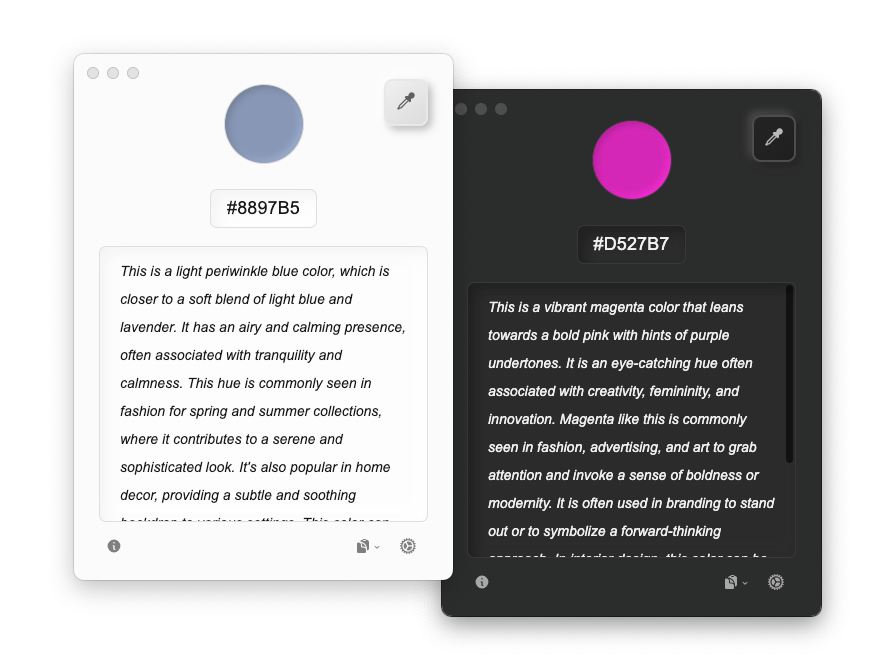
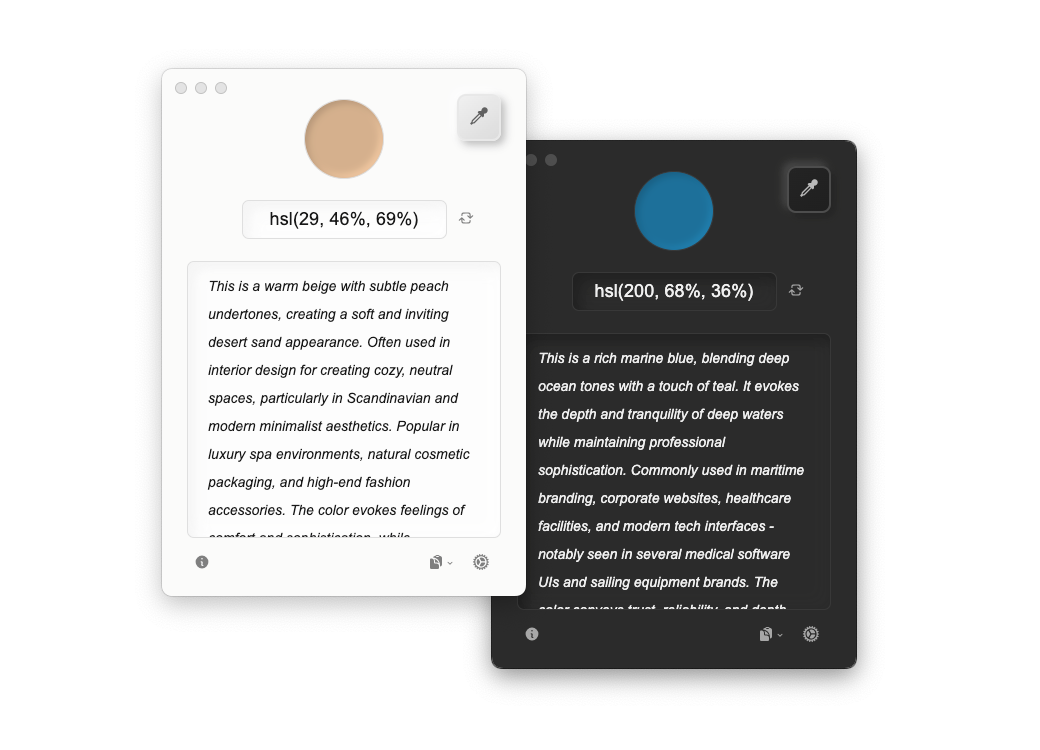
docs: update readme

diff --git a/docs/README_EN.md b/docs/README_EN.md
@@ -19,12 +19,21 @@ You can download ColorLift's installation packages and portable archives for Win
 
 ## Features
 
-- 🎨 **One-click Color Picking**: Click any spot on the screen to get the corresponding HEX color value.
+- 🎨 **One-click Color Picking**: Click any spot on the screen to get the corresponding HEX/RGB/HSL color value.
 - 🔍 **Color Recognition Assistance**: Textual descriptions help users (especially those with color vision deficiencies) understand colors.
 - 🌈 **Contextual Color Descriptions**: Provides common use cases for colors, aiding in practical application.
 - 🌍 **Multi-language Support**: Currently supports English, Simplified Chinese, and Traditional Chinese. Contributions for additional languages or corrections are welcome.
 - 🤖 **Multi-Model Support**: API support for Anthropic, Cohere, iFlytek Spark, OpenAI, and Zhipu AI.
 - 💻 **Cross-Platform Compatibility**: Supports Windows and macOS.
+
+## Interface Preview
+
+![Application Interface](images/promote_en_2.png)
+
+**Supports switching between HEX, RGB, and HSL color formats.**
+
+*(The language model used in the demonstration is Claude 3.5 Sonnet.)*
+
 
 ## System Requirements
 
@@ -47,7 +56,7 @@ Before using ColorLift, ensure you have an API Key from a supported large langua
 - **OpenAI**: [Get API Key](https://platform.openai.com/api-keys) | [Pricing](https://openai.com/api/pricing/)
 - **Zhipu AI**: [Get API Key](https://open.bigmodel.cn/usercenter/proj-mgmt/apikeys) (Account Settings > Project Management > API Keys) | [Pricing](https://open.bigmodel.cn/pricing)
 
-### macOS Users: Initial Setup Notice
+## macOS Users: Initial Setup Notice
 
 Since ColorLift does not currently use code signing (as this is a personal project without an Apple Developer Account), running it for the first time on macOS may trigger a security warning. You can follow simple steps to enable it. Refer to the official guide: [Open a Mac App from an Unidentified Developer](https://support.apple.com/guide/mac-help/mh40616/mac).
 
@@ -56,11 +65,8 @@ Since ColorLift does not currently use code signing (as this is a personal proje
 1. In the settings section at the bottom-right corner of the main interface, select your LLM provider and model, and enter the API Key from the respective provider (ensure your region and network allow access to the model service).
 2. Use the color picker tool on the interface (or use the default shortcuts: Windows: `Alt + D` / macOS: `Option + C`) to select any color from the screen.
 3. ColorLift will generate the following information:
-   - HEX color value.
-   - A detailed textual description, including a description of the color and its common applications. For example:
-     > *(Generated by Claude 3.5 Sonnet)*
-     > `#5B8FB0`:
-     > A sophisticated blue-gray hue with a touch of deep-sea mystique. It resembles the sky reflected on a calm sea, balancing indigo and gray, exuding maturity and stability. This color is commonly used in modern minimalist interior design, ideal for bedroom or study walls to create a serene and cozy ambiance. It’s also popular in corporate branding, conveying professionalism and reliability. Additionally, it frequently appears in business attire, high-end furniture, and architectural facades, showcasing understated elegance.
+   - HEX, RGB, and HSL color values.
+   - A detailed textual description, including a description of the color and its common applications.
 4. Copy the color code and description with a single click.
 
 ## Privacy
@@ -68,7 +74,7 @@ Since ColorLift does not currently use code signing (as this is a personal proje
 1. **Screen Access**:
 
    - On macOS, ColorLift requires screen recording and system audio permissions to function. Without these permissions, the color picker may not work properly.
-   - During color picking, the application only reads the color value of a 1x1 pixel area under the cursor and sends the HEX value to the LLM for processing (designed to protect privacy and minimize API usage costs).
+   - During color picking, the application only reads the color value of a 1x1 pixel area under the cursor and sends the HEX, RGB, and HSL values to the LLM for processing (designed to protect privacy and minimize API usage costs).
 
 2. **LLM API Key**:
 
@@ -83,6 +89,8 @@ ColorLift supports the following language models:
 - **iFlytek Spark**: Lite, Pro, Max, 4.0 Ultra
 - **OpenAI**: GPT-4o Series
 - **Zhipu AI**: GLM-4 Series
+
+*Due to differences in underlying architecture and training data, the quality of text generated by different language models may vary.*
 
 ## FAQ
 

diff --git a/README.md b/README.md
@@ -19,12 +19,20 @@
 
 ## 特点
 
-- 🎨 **一键拾色**：点击屏幕上的任意位置，获取对应的 HEX 颜色值。
+- 🎨 **一键拾色**：点击屏幕上的任意位置，获取对应的 HEX/RGB/HSL 颜色值。
 - 🔍 **颜色识别辅助**：通过文字描述帮助用户（特别是色觉障碍者）理解颜色。
 - 🌈 **语境化颜色描述**：提供颜色的常见使用场景，帮助用户更好地理解色彩在实际中的应用。
 - 🌍 **多语言支持**：目前支持英文、简体中文和繁体中文，欢迎贡献其他语言的翻译或帮助纠错。
 - 🤖 **多模型支持**：API 支持 Anthropic、Cohere、科大讯飞星火、OpenAI 和智谱 AI。
 - 💻 **跨平台兼容**：支持 Windows 和 macOS。
+
+## 界面预览
+
+![应用界面2](docs/images/promote_zh-CN_2.png)
+
+**支持在 HEX、RGB 和 HSL 颜色格式之间切换。**
+
+*（演示中使用的语言模型为 Claude 3.5 Sonnet）*
 
 ## 系统要求
 
@@ -47,7 +55,7 @@
 - **OpenAI**: [获取 API Key](https://platform.openai.com/api-keys) | [资费说明](https://openai.com/api/pricing/)
 - **智谱 AI (Zhipu AI)**: [获取 API Key](https://open.bigmodel.cn/usercenter/proj-mgmt/apikeys) （账号设置 > 项目管理 > API keys）| [资费说明](https://open.bigmodel.cn/pricing)
 
-### macOS 用户使用前注意
+## macOS 用户使用前注意
 
 由于拾彩目前未启用代码签名（因为作为兴趣使然的个人项目，我并未支付 Apple 开发者账号的年费），因此在 macOS 上首次运行时，会触发系统的安全警告。您只需要进行一些简单的设置即可使用它，请参阅官方文档：[打开来自未知开发者的 Mac App](https://support.apple.com/guide/mac-help/mh40616/mac)。
 
@@ -56,11 +64,8 @@
 1. 在拾彩应用主界面的右下角的设置中选择语言模型的提供商与模型，并输入从相应提供商获取的 API Key （请首先确保您所在的地区与网络能够访问到该语言模型服务）。
 2. 使用界面上的拾色工具（或使用自带的快捷键：Windows 默认：`ALt + D` / macOS 默认： `Option + C`）从屏幕中选取任意颜色。
 3. 拾彩应用将提供并生成以下信息：
-   - 颜色的 HEX 值。
-   - 详细的文字描述，包括颜色的描述以及常见应用场景。例如：
-    > *（示例生成自Claude 3.5 Sonnet）*
-    > `#5B8FB0`:
-    > 这是一种典雅的青灰蓝色，带有些许深海般的神秘感。它像是平静海面反射的天空，介于靛蓝和灰色之间，透露出成熟稳重的气质。这种颜色常见于现代简约风格的室内设计，特别适合用作主卧室或书房的墙面色彩，能营造出安宁舒适的氛围。在企业品牌设计中，它也是很受欢迎的选择，传达出专业、可靠的形象。此外，这个色调还经常出现在商务正装、高端家具和建筑外立面设计中，展现出低调优雅的格调。
+   - 该颜色的 HEX、RGB 与 HSL 值。
+   - 详细的文字描述，包括颜色的描述以及常见应用场景。
 4. 拾彩应用支持一键复制颜色的代码与生成的描述
 
 ## 隐私
@@ -68,7 +73,7 @@
 1. **屏幕权限**：
 
    - 在 macOS 上，拾彩需要访问“录屏与系统录音”权限。主要用于取色功能。若不授予权限，取色将无法正常进行。（获取到的颜色与点击的屏幕区域不符。）
-   - 取色时，应用仅读取鼠标指针前 1x1 像素图像内的颜色值，并将该颜色值的 HEX 文本传递给 LLM 进行解析。（除了保障隐私，这种方法也对您 API 的使用资费很友好。）
+   - 取色时，应用仅读取鼠标指针前 1x1 像素图像内的颜色值，并将该颜色值的 HEX、RGB 与 HSL 文本传递给 LLM 进行解析。（除了保障隐私，这种方法也对您 API 的使用资费很友好。）
 
 2. **LLM 的 API Key**：
 
@@ -83,6 +88,8 @@
 - **科大讯飞星火**: Lite、Pro、Max、4.0 Ultra
 - **OpenAI**: GPT-4o 系列
 - **智谱 AI**: GLM-4 系列
+
+*由于底层架构和训练数据的差异，不同语言模型生成的文本质量可能会有所不同。*
 
 ## 常见问题 (FAQ)
 

diff --git a/docs/README_ZH-TW.md b/docs/README_ZH-TW.md
@@ -19,12 +19,20 @@
 
 ## 特點
 
-- 🎨 **一鍵拾色**：點擊屏幕上的任意位置，獲取對應的 HEX 顏色值。
+- 🎨 **一鍵拾色**：點擊屏幕上的任意位置，獲取對應的 HEX/RGB/HSL 顏色值。
 - 🔍 **顏色識別輔助**：通過文字描述幫助用戶（特別是色覺障礙者）理解顏色。
 - 🌈 **語境化顏色描述**：提供顏色的常見使用場景，幫助用戶更好地理解色彩在實際中的應用。
 - 🌍 **多語言支持**：目前支持英文、簡體中文和繁體中文，歡迎貢獻其他語言的翻譯或幫助勘誤。
 - 🤖 **多模型支持**：API 支持 Anthropic、Cohere、科大訊飛星火、OpenAI 和智譜 AI。
 - 💻 **跨平台兼容**：支持 Windows 和 macOS。
+
+## 界面預覽
+
+![應用界面2](images/promote_zh-TW_2.png)
+
+**支持在 HEX、RGB 和 HSL 顏色格式之間切換。**
+
+*（演示中使用的語言模型為 Claude 3.5 Sonnet）*
 
 ## 系統需求
 
@@ -47,7 +55,7 @@
 - **OpenAI**: [獲取 API Key](https://platform.openai.com/api-keys) | [資費說明](https://openai.com/api/pricing/)
 - **智譜 AI (Zhipu AI)**: [獲取 API Key](https://open.bigmodel.cn/usercenter/proj-mgmt/apikeys) （賬號設置 > 項目管理 > API keys）| [資費說明](https://open.bigmodel.cn/pricing)
 
-### macOS 用戶使用前注意
+## macOS 用戶使用前注意
 
 由於拾彩目前未啟用代碼簽名（因為作為興趣使然的個人項目，我並未支付 Apple 開發者賬號的年費），因此在 macOS 上首次運行時，會觸發系統的安全警告。您只需要進行一些簡單的設置即可使用它，請參閱官方文件：[打開來自未知開發者的 Mac App](https://support.apple.com/guide/mac-help/mh40616/mac)。
 
@@ -56,11 +64,8 @@
 1. 在拾彩應用主界面的右下角的設置中選擇語言模型的提供商與模型，並輸入從相應提供商獲取的 API Key（請首先確保您所在的地區與網絡能夠訪問到該語言模型服務）。
 2. 使用介面上的拾色工具（或使用自帶的快捷鍵：Windows 預設：`ALt + D` / macOS 預設： `Option + C`）從屏幕中選取任意顏色。
 3. 拾彩應用將提供並生成以下資訊：
-   - 顏色的 HEX 值。
-   - 詳細的文字描述，包括顏色的描述以及常見應用場景。例如：
-    > *（示例生成自Claude 3.5 Sonnet）*
-    > `#5B8FB0`:
-    > 這是一種典雅的青灰藍色，帶有些許深海般的神秘感。它像是平靜海面反射的天空，介於靛藍和灰色之間，透露出成熟穩重的氣質。這種顏色常見於現代簡約風格的室內設計，特別適合作為主臥室或書房的牆面色彩，能營造出安寧舒適的氛圍。在企業品牌設計中，它也是很受歡迎的選擇，傳達出專業、可靠的形象。此外，這個色調還經常出現在商務正裝、高端家具和建築外立面設計中，展現出低調優雅的格調。
+   - 顏色的 HEX、RGB 和 HSL 值。
+   - 詳細的文字描述，包括顏色的描述以及常見應用場景。
 4. 拾彩應用支持一鍵複製顏色的代碼與生成的描述。
 
 ## 隱私
@@ -68,7 +73,7 @@
 1. **屏幕權限**：
 
    - 在 macOS 上，拾彩需要訪問“錄屏與系統錄音”權限。主要用於取色功能。若不授予權限，取色將無法正常進行。（獲取到的顏色與點擊的屏幕區域不符。）
-   - 取色時，應用僅讀取鼠標指針前 1x1 像素圖像內的顏色值，並將該顏色值的 HEX 文本傳遞給 LLM 進行解析。（除了保障隱私，這種方法也對您 API 的使用資費很友好。）
+   - 取色時，應用僅讀取鼠標指針前 1x1 像素圖像內的顏色值，並將該顏色值的 HEX、RGB 和 HSL 文本傳遞給 LLM 進行解析。（除了保障隱私，這種方法也對您 API 的使用資費很友好。）
 
 2. **LLM 的 API Key**：
 
@@ -83,6 +88,8 @@
 - **科大訊飛星火**: Lite、Pro、Max、4.0 Ultra
 - **OpenAI**: GPT-4o 系列
 - **智譜 AI**: GLM-4 系列
+
+*由於底層架構和訓練數據的差異，不同語言模型生成的文本質量可能會有所不同。*
 
 ## 常見問題 (FAQ)
 
